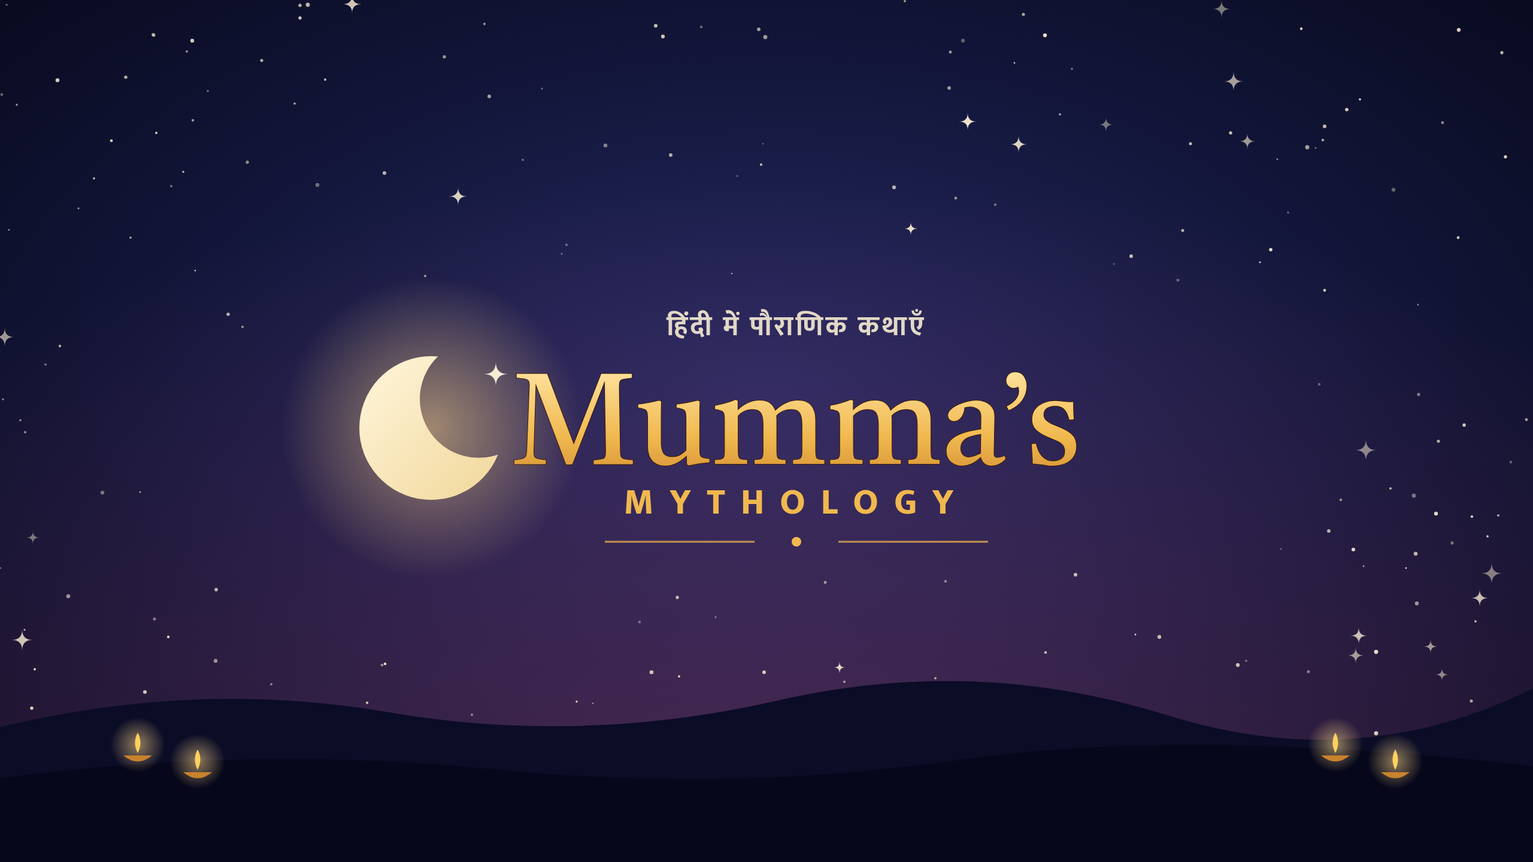
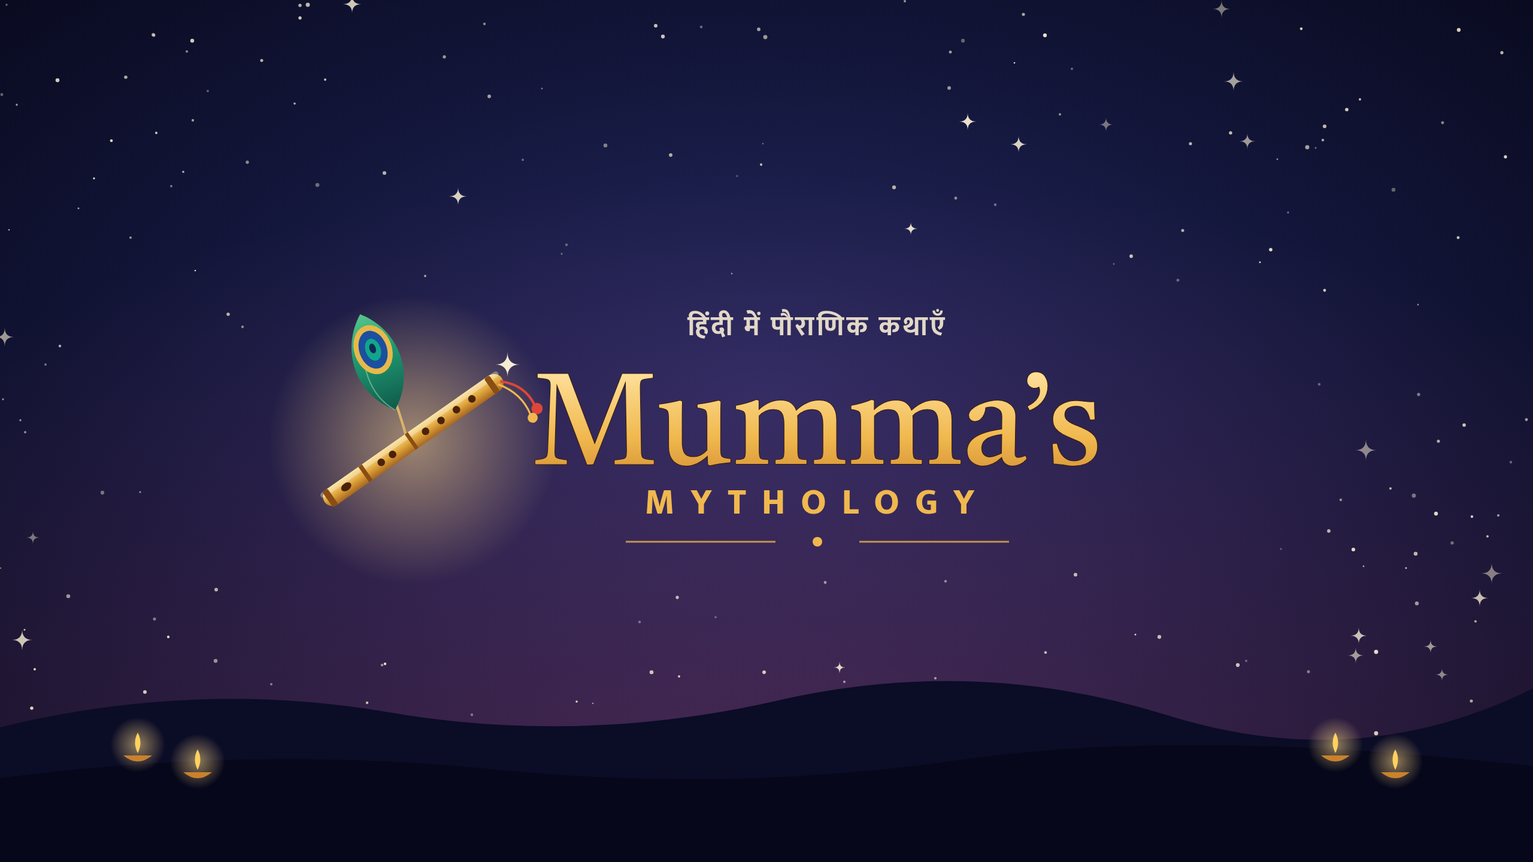
Replace crescent moon with Krishna's bansuri and peacock feather

Changed region(s): [[0.1875, 0.375, 0.7188, 0.5938], [0.4375, 0.3438, 0.625, 0.4062]]

diff --git a/channel-art/profile.html b/channel-art/profile.html
@@ -6,14 +6,37 @@
 <radialGradient id="haze" cx="50%" cy="100%" r="80%"><stop offset="0" stop-color="#7a3a6a" stop-opacity=".55"/><stop offset="1" stop-color="#7a3a6a" stop-opacity="0"/></radialGradient>
 <radialGradient id="glow" cx="50%" cy="50%" r="50%"><stop offset="0" stop-color="#ffd98a" stop-opacity=".55"/><stop offset="1" stop-color="#ffd98a" stop-opacity="0"/></radialGradient>
 <linearGradient id="gold" x1="0" y1="0" x2="0" y2="1"><stop offset="0" stop-color="#ffe3a0"/><stop offset=".55" stop-color="#f0b84e"/><stop offset="1" stop-color="#c9822c"/></linearGradient>
+<linearGradient id="bamboo" x1="0" y1="0" x2="0" y2="1"><stop offset="0" stop-color="#f8dc8e"/><stop offset=".5" stop-color="#e0a53c"/><stop offset="1" stop-color="#a8671f"/></linearGradient>
+<linearGradient id="feather" x1="0" y1="1" x2="0" y2="0"><stop offset="0" stop-color="#0f5a4a"/><stop offset=".6" stop-color="#1f9a72"/><stop offset="1" stop-color="#58c58a"/></linearGradient>
 <linearGradient id="moon" x1="0" y1="0" x2="1" y2="1"><stop offset="0" stop-color="#fff6dc"/><stop offset="1" stop-color="#f1d79a"/></linearGradient>
 </defs>
 <rect width="800" height="800" fill="url(#bg)"/><rect width="800" height="800" fill="url(#haze)"/>
 <circle cx="231" cy="152" r="2.0244870897030864" fill="#f6ecd2" opacity="0.67"/><circle cx="194" cy="269" r="1.4185520676516705" fill="#f6ecd2" opacity="0.77"/><path d="M547 326.8944715000198Q547 337 557.1055284999802 337Q547 337 547 347.1055284999802Q547 337 536.8944715000198 337Q547 337 547 326.8944715000198Z" fill="#f6ecd2" opacity="0.83"/><circle cx="727" cy="268" r="2.0309535110979127" fill="#f6ecd2" opacity="0.85"/><circle cx="122" cy="214" r="3.3619757372243217" fill="#f6ecd2" opacity="0.53"/><circle cx="219" cy="404" r="1.7244897800611751" fill="#f6ecd2" opacity="0.60"/><circle cx="292" cy="248" r="2.432680681316499" fill="#f6ecd2" opacity="0.90"/><circle cx="132" cy="292" r="2.232690644232878" fill="#f6ecd2" opacity="0.57"/><circle cx="266" cy="383" r="3.2942885250757863" fill="#f6ecd2" opacity="0.49"/><circle cx="413" cy="364" r="2.1727886065248345" fill="#f6ecd2" opacity="0.91"/><circle cx="567" cy="181" r="2.0273196376521696" fill="#f6ecd2" opacity="0.56"/><circle cx="325" cy="111" r="1.7840120902676193" fill="#f6ecd2" opacity="0.95"/><circle cx="506" cy="104" r="1.6031491709422085" fill="#f6ecd2" opacity="0.71"/><path d="M188 255.59665456488574Q188 269 201.40334543511426 269Q188 269 188 282.40334543511426Q188 269 174.59665456488574 269Q188 269 188 255.59665456488574Z" fill="#f6ecd2" opacity="0.42"/><circle cx="151" cy="697" r="1.8857969958269023" fill="#f6ecd2" opacity="0.76"/><circle cx="178" cy="150" r="2.9927316919400972" fill="#f6ecd2" opacity="0.38"/><circle cx="399" cy="24" r="1.5876725945098664" fill="#f6ecd2" opacity="0.90"/><circle cx="763" cy="551" r="2.900865167752311" fill="#f6ecd2" opacity="0.50"/><circle cx="706" cy="287" r="3.251367246243808" fill="#f6ecd2" opacity="0.59"/><circle cx="447" cy="253" r="2.0370497672525465" fill="#f6ecd2" opacity="0.79"/><circle cx="580" cy="304" r="3.468060160879074" fill="#f6ecd2" opacity="0.54"/><circle cx="108" cy="358" r="3.380684271958044" fill="#f6ecd2" opacity="0.81"/><circle cx="386" cy="135" r="2.7577466404334396" fill="#f6ecd2" opacity="0.45"/><circle cx="417" cy="404" r="2.097397033030818" fill="#f6ecd2" opacity="0.80"/><circle cx="239" cy="390" r="1.9399903952330306" fill="#f6ecd2" opacity="0.78"/><circle cx="343" cy="54" r="3.313982390712007" fill="#f6ecd2" opacity="0.84"/>
-<path d="M605 279Q605 290 616 290Q605 290 605 301Q605 290 594 290Q605 290 605 279Z" fill="#f6ecd2" opacity="0.95"/><circle cx="599.9" cy="335.6" r="3.8499999999999996" fill="#f6ecd2" opacity="0.8"/><path d="M584.7 367.9Q584.7 378.9 595.7 378.9Q584.7 378.9 584.7 389.9Q584.7 378.9 573.7 378.9Q584.7 378.9 584.7 367.9Z" fill="#f6ecd2" opacity="0.95"/><circle cx="560.3" cy="417.8" r="3.8499999999999996" fill="#f6ecd2" opacity="0.8"/><path d="M527.8 439.3Q527.8 450.3 538.8 450.3Q527.8 450.3 527.8 461.3Q527.8 450.3 516.8 450.3Q527.8 450.3 527.8 439.3Z" fill="#f6ecd2" opacity="0.95"/><circle cx="488.9" cy="474.7" r="3.8499999999999996" fill="#f6ecd2" opacity="0.8"/><path d="M445.6 478.9Q445.6 489.9 456.6 489.9Q445.6 489.9 445.6 500.9Q445.6 489.9 434.6 489.9Q445.6 489.9 445.6 478.9Z" fill="#f6ecd2" opacity="0.95"/><circle cx="400.0" cy="495.0" r="3.8499999999999996" fill="#f6ecd2" opacity="0.8"/><path d="M354.4 478.9Q354.4 489.9 365.4 489.9Q354.4 489.9 354.4 500.9Q354.4 489.9 343.4 489.9Q354.4 489.9 354.4 478.9Z" fill="#f6ecd2" opacity="0.95"/><circle cx="311.1" cy="474.7" r="3.8499999999999996" fill="#f6ecd2" opacity="0.8"/><path d="M272.2 439.3Q272.2 450.3 283.2 450.3Q272.2 450.3 272.2 461.3Q272.2 450.3 261.2 450.3Q272.2 450.3 272.2 439.3Z" fill="#f6ecd2" opacity="0.95"/><circle cx="239.7" cy="417.8" r="3.8499999999999996" fill="#f6ecd2" opacity="0.8"/><path d="M215.3 367.9Q215.3 378.9 226.3 378.9Q215.3 378.9 215.3 389.9Q215.3 378.9 204.3 378.9Q215.3 378.9 215.3 367.9Z" fill="#f6ecd2" opacity="0.95"/><circle cx="200.1" cy="335.6" r="3.8499999999999996" fill="#f6ecd2" opacity="0.8"/><path d="M195 279Q195 290 206 290Q195 290 195 301Q195 290 184 290Q195 290 195 279Z" fill="#f6ecd2" opacity="0.95"/><circle cx="200.1" cy="244.4" r="3.8499999999999996" fill="#f6ecd2" opacity="0.8"/><path d="M215.3 190.1Q215.3 201.1 226.3 201.1Q215.3 201.1 215.3 212.1Q215.3 201.1 204.3 201.1Q215.3 201.1 215.3 190.1Z" fill="#f6ecd2" opacity="0.95"/><circle cx="239.7" cy="162.2" r="3.8499999999999996" fill="#f6ecd2" opacity="0.8"/><path d="M272.2 118.69999999999999Q272.2 129.7 283.2 129.7Q272.2 129.7 272.2 140.7Q272.2 129.7 261.2 129.7Q272.2 129.7 272.2 118.69999999999999Z" fill="#f6ecd2" opacity="0.95"/><circle cx="311.1" cy="105.3" r="3.8499999999999996" fill="#f6ecd2" opacity="0.8"/><path d="M354.4 79.1Q354.4 90.1 365.4 90.1Q354.4 90.1 354.4 101.1Q354.4 90.1 343.4 90.1Q354.4 90.1 354.4 79.1Z" fill="#f6ecd2" opacity="0.95"/><circle cx="400.0" cy="85.0" r="3.8499999999999996" fill="#f6ecd2" opacity="0.8"/><path d="M445.6 79.1Q445.6 90.1 456.6 90.1Q445.6 90.1 445.6 101.1Q445.6 90.1 434.6 90.1Q445.6 90.1 445.6 79.1Z" fill="#f6ecd2" opacity="0.95"/><circle cx="488.9" cy="105.3" r="3.8499999999999996" fill="#f6ecd2" opacity="0.8"/><path d="M527.8 118.69999999999999Q527.8 129.7 538.8 129.7Q527.8 129.7 527.8 140.7Q527.8 129.7 516.8 129.7Q527.8 129.7 527.8 118.69999999999999Z" fill="#f6ecd2" opacity="0.95"/><circle cx="560.3" cy="162.2" r="3.8499999999999996" fill="#f6ecd2" opacity="0.8"/><path d="M584.7 190.1Q584.7 201.1 595.7 201.1Q584.7 201.1 584.7 212.1Q584.7 201.1 573.7 201.1Q584.7 201.1 584.7 190.1Z" fill="#f6ecd2" opacity="0.95"/><circle cx="599.9" cy="244.4" r="3.8499999999999996" fill="#f6ecd2" opacity="0.8"/>
-<circle cx="400" cy="290" r="235.20000000000002" fill="url(#glow)"/>
-<path d="M410.5 178.5A112 112 0 1 0 504.0 331.5A91.8 91.8 0 0 1 410.5 178.5Z" fill="url(#moon)"/>
-<path d="M500.8 186.96Q500.8 206 519.84 206Q500.8 206 500.8 225.04Q500.8 206 481.76 206Q500.8 206 500.8 186.96Z" fill="#f6ecd2" opacity="1"/>
+<path d="M615 279Q615 290 626 290Q615 290 615 301Q615 290 604 290Q615 290 615 279Z" fill="#f6ecd2" opacity="0.95"/><circle cx="609.6" cy="337.8" r="3.8499999999999996" fill="#f6ecd2" opacity="0.8"/><path d="M593.7 372.3Q593.7 383.3 604.7 383.3Q593.7 383.3 593.7 394.3Q593.7 383.3 582.7 383.3Q593.7 383.3 593.7 372.3Z" fill="#f6ecd2" opacity="0.95"/><circle cx="568.1" cy="424.1" r="3.8499999999999996" fill="#f6ecd2" opacity="0.8"/><path d="M534.1 447.1Q534.1 458.1 545.1 458.1Q534.1 458.1 534.1 469.1Q534.1 458.1 523.1 458.1Q534.1 458.1 534.1 447.1Z" fill="#f6ecd2" opacity="0.95"/><circle cx="493.3" cy="483.7" r="3.8499999999999996" fill="#f6ecd2" opacity="0.8"/><path d="M447.8 488.6Q447.8 499.6 458.8 499.6Q447.8 499.6 447.8 510.6Q447.8 499.6 436.8 499.6Q447.8 499.6 447.8 488.6Z" fill="#f6ecd2" opacity="0.95"/><circle cx="400.0" cy="505.0" r="3.8499999999999996" fill="#f6ecd2" opacity="0.8"/><path d="M352.2 488.6Q352.2 499.6 363.2 499.6Q352.2 499.6 352.2 510.6Q352.2 499.6 341.2 499.6Q352.2 499.6 352.2 488.6Z" fill="#f6ecd2" opacity="0.95"/><circle cx="306.7" cy="483.7" r="3.8499999999999996" fill="#f6ecd2" opacity="0.8"/><path d="M265.9 447.1Q265.9 458.1 276.9 458.1Q265.9 458.1 265.9 469.1Q265.9 458.1 254.89999999999998 458.1Q265.9 458.1 265.9 447.1Z" fill="#f6ecd2" opacity="0.95"/><circle cx="231.9" cy="424.1" r="3.8499999999999996" fill="#f6ecd2" opacity="0.8"/><path d="M206.3 372.3Q206.3 383.3 217.3 383.3Q206.3 383.3 206.3 394.3Q206.3 383.3 195.3 383.3Q206.3 383.3 206.3 372.3Z" fill="#f6ecd2" opacity="0.95"/><circle cx="190.4" cy="337.8" r="3.8499999999999996" fill="#f6ecd2" opacity="0.8"/><path d="M185 279Q185 290 196 290Q185 290 185 301Q185 290 174 290Q185 290 185 279Z" fill="#f6ecd2" opacity="0.95"/><circle cx="190.4" cy="242.2" r="3.8499999999999996" fill="#f6ecd2" opacity="0.8"/><path d="M206.3 185.7Q206.3 196.7 217.3 196.7Q206.3 196.7 206.3 207.7Q206.3 196.7 195.3 196.7Q206.3 196.7 206.3 185.7Z" fill="#f6ecd2" opacity="0.95"/><circle cx="231.9" cy="155.9" r="3.8499999999999996" fill="#f6ecd2" opacity="0.8"/><path d="M265.9 110.9Q265.9 121.9 276.9 121.9Q265.9 121.9 265.9 132.9Q265.9 121.9 254.89999999999998 121.9Q265.9 121.9 265.9 110.9Z" fill="#f6ecd2" opacity="0.95"/><circle cx="306.7" cy="96.3" r="3.8499999999999996" fill="#f6ecd2" opacity="0.8"/><path d="M352.2 69.4Q352.2 80.4 363.2 80.4Q352.2 80.4 352.2 91.4Q352.2 80.4 341.2 80.4Q352.2 80.4 352.2 69.4Z" fill="#f6ecd2" opacity="0.95"/><circle cx="400.0" cy="75.0" r="3.8499999999999996" fill="#f6ecd2" opacity="0.8"/><path d="M447.8 69.4Q447.8 80.4 458.8 80.4Q447.8 80.4 447.8 91.4Q447.8 80.4 436.8 80.4Q447.8 80.4 447.8 69.4Z" fill="#f6ecd2" opacity="0.95"/><circle cx="493.3" cy="96.3" r="3.8499999999999996" fill="#f6ecd2" opacity="0.8"/><path d="M534.1 110.9Q534.1 121.9 545.1 121.9Q534.1 121.9 534.1 132.9Q534.1 121.9 523.1 121.9Q534.1 121.9 534.1 110.9Z" fill="#f6ecd2" opacity="0.95"/><circle cx="568.1" cy="155.9" r="3.8499999999999996" fill="#f6ecd2" opacity="0.8"/><path d="M593.7 185.7Q593.7 196.7 604.7 196.7Q593.7 196.7 593.7 207.7Q593.7 196.7 582.7 196.7Q593.7 196.7 593.7 185.7Z" fill="#f6ecd2" opacity="0.95"/><circle cx="609.6" cy="242.2" r="3.8499999999999996" fill="#f6ecd2" opacity="0.8"/>
+
+<circle cx="400" cy="300" r="218.5" fill="url(#glow)"/>
+<g transform="translate(400 300) scale(0.95)">
+ <g transform="translate(-5 18) rotate(-20)">
+  <path d="M0 0Q10 -85 0 -178" fill="none" stroke="#d9b46a" stroke-width="4" stroke-linecap="round"/>
+  <path d="M0 -70C-52 -115 -48 -190 0 -232C48 -190 52 -115 0 -70Z" fill="url(#feather)"/>
+  <path d="M0 -70C-30 -105 -30 -160 0 -200" fill="none" stroke="#9fe0b8" stroke-width="2" opacity=".5"/>
+  <ellipse cx="0" cy="-172" rx="30" ry="40" fill="#e8b84a"/>
+  <ellipse cx="0" cy="-172" rx="22" ry="31" fill="#1b4fa0"/>
+  <ellipse cx="0" cy="-172" rx="12" ry="18" fill="#12a58a"/>
+  <ellipse cx="0" cy="-174" rx="5" ry="8" fill="#0b2a55"/>
+ </g>
+ <g transform="rotate(-35)">
+  <rect x="-172" y="-15" width="344" height="30" rx="15" fill="url(#bamboo)"/>
+  <rect x="-172" y="-15" width="344" height="9" rx="5" fill="#fff6dc" opacity=".35"/>
+  <g fill="#8a4d14"><rect x="-166" y="-15" width="10" height="30" rx="3"/><rect x="-96" y="-15" width="7" height="30"/><rect x="148" y="-15" width="10" height="30" rx="3"/><rect x="-6" y="-15" width="6" height="30"/></g>
+  <ellipse cx="-130" cy="0" rx="9" ry="6" fill="#4a2208"/>
+  <g fill="#4a2208"><circle cx="-40" cy="0" r="6"/><circle cx="-8" cy="0" r="0"/><circle cx="24" cy="0" r="6"/><circle cx="54" cy="0" r="6"/><circle cx="84" cy="0" r="6"/><circle cx="114" cy="0" r="6"/><circle cx="-62" cy="0" r="6"/></g>
+  <path d="M168 4Q196 30 190 66" fill="none" stroke="#e0453a" stroke-width="4" stroke-linecap="round"/>
+  <path d="M162 6Q184 38 176 74" fill="none" stroke="#f0b84e" stroke-width="3" stroke-linecap="round"/>
+  <circle cx="190" cy="72" r="9" fill="#e0453a"/><circle cx="176" cy="80" r="8" fill="#f0b84e"/>
+ </g>
+</g>
+<path d="M542.5 167Q542.5 186 561.5 186Q542.5 186 542.5 205Q542.5 186 523.5 186Q542.5 186 542.5 167Z" fill="#f6ecd2" opacity="1"/>
 <text x="400" y="545" text-anchor="middle" font-family="Tiro,serif" font-size="136" fill="url(#gold)" stroke="#3a1a05" stroke-width="1.5" paint-order="stroke">Mumma’s</text>
 <text x="400" y="617" text-anchor="middle" font-family="Mukta,sans-serif" font-weight="800" font-size="40" letter-spacing="15" fill="#f0b84e">MYTHOLOGY</text>
 <g stroke="#f0b84e" stroke-width="2" opacity=".75"><path d="M285 662H375M425 662H515"/></g>

diff --git a/channel-art/make.js b/channel-art/make.js
@@ -19,22 +19,37 @@ const defs = (w, h) => `
 <radialGradient id="haze" cx="50%" cy="100%" r="80%"><stop offset="0" stop-color="#7a3a6a" stop-opacity=".55"/><stop offset="1" stop-color="#7a3a6a" stop-opacity="0"/></radialGradient>
 <radialGradient id="glow" cx="50%" cy="50%" r="50%"><stop offset="0" stop-color="#ffd98a" stop-opacity=".55"/><stop offset="1" stop-color="#ffd98a" stop-opacity="0"/></radialGradient>
 <linearGradient id="gold" x1="0" y1="0" x2="0" y2="1"><stop offset="0" stop-color="#ffe3a0"/><stop offset=".55" stop-color="#f0b84e"/><stop offset="1" stop-color="#c9822c"/></linearGradient>
+<linearGradient id="bamboo" x1="0" y1="0" x2="0" y2="1"><stop offset="0" stop-color="#f8dc8e"/><stop offset=".5" stop-color="#e0a53c"/><stop offset="1" stop-color="#a8671f"/></linearGradient>
+<linearGradient id="feather" x1="0" y1="1" x2="0" y2="0"><stop offset="0" stop-color="#0f5a4a"/><stop offset=".6" stop-color="#1f9a72"/><stop offset="1" stop-color="#58c58a"/></linearGradient>
 <linearGradient id="moon" x1="0" y1="0" x2="1" y2="1"><stop offset="0" stop-color="#fff6dc"/><stop offset="1" stop-color="#f1d79a"/></linearGradient>
 </defs>`;
 
 // crescent centred at (cx,cy), outer radius r, opens to upper right like the video logo
-const crescent = (id, cx, cy, r) => {
-  // outer circle (cx,cy,r) minus inner circle (ix,iy,ri); inner is shifted to the upper right
-  const ri = r * 0.82, ix = cx + r * 0.36, iy = cy - r * 0.22, dx = ix - cx, dy = iy - cy, d = Math.hypot(dx, dy);
-  const a = (r * r - ri * ri + d * d) / (2 * d), h = Math.sqrt(r * r - a * a);
-  const mx = cx + (a * dx) / d, my = cy + (a * dy) / d;
-  const A = [mx + (h * dy) / d, my - (h * dx) / d], B = [mx - (h * dy) / d, my + (h * dx) / d];
-  const f = (p) => p.map((v) => v.toFixed(1)).join(' ');
-  // A is the upper tip, B the lower tip: long way round the outer circle, back along the inner one
-  return `<circle cx="${cx}" cy="${cy}" r="${r * 2.1}" fill="url(#glow)"/>
-<path d="M${f(A)}A${r} ${r} 0 1 0 ${f(B)}A${ri.toFixed(1)} ${ri.toFixed(1)} 0 0 1 ${f(A)}Z" fill="url(#moon)"/>
-${star4(cx + r * 0.9, cy - r * 0.75, r * 0.17, 1)}`;
-};
+// Krishna's bansuri (bamboo flute) with a peacock feather and a red tassel. s=1 is profile size.
+const bansuri = (cx, cy, s) => `
+<circle cx="${cx}" cy="${cy}" r="${230 * s}" fill="url(#glow)"/>
+<g transform="translate(${cx} ${cy}) scale(${s})">
+ <g transform="translate(-5 18) rotate(-20)">
+  <path d="M0 0Q10 -85 0 -178" fill="none" stroke="#d9b46a" stroke-width="4" stroke-linecap="round"/>
+  <path d="M0 -70C-52 -115 -48 -190 0 -232C48 -190 52 -115 0 -70Z" fill="url(#feather)"/>
+  <path d="M0 -70C-30 -105 -30 -160 0 -200" fill="none" stroke="#9fe0b8" stroke-width="2" opacity=".5"/>
+  <ellipse cx="0" cy="-172" rx="30" ry="40" fill="#e8b84a"/>
+  <ellipse cx="0" cy="-172" rx="22" ry="31" fill="#1b4fa0"/>
+  <ellipse cx="0" cy="-172" rx="12" ry="18" fill="#12a58a"/>
+  <ellipse cx="0" cy="-174" rx="5" ry="8" fill="#0b2a55"/>
+ </g>
+ <g transform="rotate(-35)">
+  <rect x="-172" y="-15" width="344" height="30" rx="15" fill="url(#bamboo)"/>
+  <rect x="-172" y="-15" width="344" height="9" rx="5" fill="#fff6dc" opacity=".35"/>
+  <g fill="#8a4d14"><rect x="-166" y="-15" width="10" height="30" rx="3"/><rect x="-96" y="-15" width="7" height="30"/><rect x="148" y="-15" width="10" height="30" rx="3"/><rect x="-6" y="-15" width="6" height="30"/></g>
+  <ellipse cx="-130" cy="0" rx="9" ry="6" fill="#4a2208"/>
+  <g fill="#4a2208"><circle cx="-40" cy="0" r="6"/><circle cx="-8" cy="0" r="0"/><circle cx="24" cy="0" r="6"/><circle cx="54" cy="0" r="6"/><circle cx="84" cy="0" r="6"/><circle cx="114" cy="0" r="6"/><circle cx="-62" cy="0" r="6"/></g>
+  <path d="M168 4Q196 30 190 66" fill="none" stroke="#e0453a" stroke-width="4" stroke-linecap="round"/>
+  <path d="M162 6Q184 38 176 74" fill="none" stroke="#f0b84e" stroke-width="3" stroke-linecap="round"/>
+  <circle cx="190" cy="72" r="9" fill="#e0453a"/><circle cx="176" cy="80" r="8" fill="#f0b84e"/>
+ </g>
+</g>
+${star4(cx + 150 * s, cy - 120 * s, 20 * s, 1)}`;
 
 const ring = (cx, cy, R, n, size) => {
   let s = '';
@@ -60,8 +75,8 @@ const scatter = (w, h, n, avoid) => {
 out('profile.svg', `<svg xmlns="http://www.w3.org/2000/svg" viewBox="0 0 800 800" width="800" height="800">${defs()}
 <rect width="800" height="800" fill="url(#bg)"/><rect width="800" height="800" fill="url(#haze)"/>
 ${scatter(800, 800, 70, (x, y) => Math.hypot(x - 400, y - 400) > 395 || (y > 425 && y < 690 && x > 60 && x < 740))}
-${ring(400, 290, 205, 28, 11)}
-${crescent('cm', 400, 290, 112)}
+${ring(400, 290, 215, 28, 11)}
+${bansuri(400, 300, 0.95)}
 <text x="400" y="545" text-anchor="middle" font-family="Tiro,serif" font-size="136" fill="url(#gold)" stroke="#3a1a05" stroke-width="1.5" paint-order="stroke">Mumma’s</text>
 <text x="400" y="617" text-anchor="middle" font-family="Mukta,sans-serif" font-weight="800" font-size="40" letter-spacing="15" fill="#f0b84e">MYTHOLOGY</text>
 <g stroke="#f0b84e" stroke-width="2" opacity=".75"><path d="M285 662H375M425 662H515"/></g>
@@ -80,11 +95,11 @@ ${scatter(W, H, 260, (x, y) => x > 460 && x < 2100 && y > 470 && y < 960)}
 ${hills}
 ${diya(230, 1262)}${diya(330, 1290)}${diya(2230, 1262)}${diya(2330, 1290)}
 <!-- safe-area content: moon left of the name -->
-${crescent('cm', 720, 715, 120)}
-<text x="1330" y="775" text-anchor="middle" font-family="Tiro,serif" font-size="215" fill="url(#gold)" stroke="#3a1a05" stroke-width="2" paint-order="stroke">Mumma’s</text>
-<text x="1330" y="858" text-anchor="middle" font-family="Mukta,sans-serif" font-weight="800" font-size="60" letter-spacing="26" fill="#f0b84e">MYTHOLOGY</text>
-<g stroke="#f0b84e" stroke-width="3" opacity=".75"><path d="M1010 905H1260M1400 905H1650"/></g><circle cx="1330" cy="905" r="8" fill="#f0b84e"/>
-<text x="1330" y="560" text-anchor="middle" font-family="Mukta,sans-serif" font-weight="700" font-size="46" letter-spacing="4" fill="#f6ecd2" opacity=".9">हिंदी में पौराणिक कथाएँ</text>
+${bansuri(690, 735, 1.05)}
+<text x="1365" y="775" text-anchor="middle" font-family="Tiro,serif" font-size="215" fill="url(#gold)" stroke="#3a1a05" stroke-width="2" paint-order="stroke">Mumma’s</text>
+<text x="1365" y="858" text-anchor="middle" font-family="Mukta,sans-serif" font-weight="800" font-size="60" letter-spacing="26" fill="#f0b84e">MYTHOLOGY</text>
+<g stroke="#f0b84e" stroke-width="3" opacity=".75"><path d="M1045 905H1295M1435 905H1685"/></g><circle cx="1365" cy="905" r="8" fill="#f0b84e"/>
+<text x="1365" y="560" text-anchor="middle" font-family="Mukta,sans-serif" font-weight="700" font-size="46" letter-spacing="4" fill="#f6ecd2" opacity=".9">हिंदी में पौराणिक कथाएँ</text>
 </svg>`);
 console.log('wrote profile.svg, banner.svg');
 // HTML wrappers (inline SVG) so fonts load reliably when rendering to PNG

diff --git a/channel-art/banner.html b/channel-art/banner.html
@@ -6,6 +6,8 @@
 <radialGradient id="haze" cx="50%" cy="100%" r="80%"><stop offset="0" stop-color="#7a3a6a" stop-opacity=".55"/><stop offset="1" stop-color="#7a3a6a" stop-opacity="0"/></radialGradient>
 <radialGradient id="glow" cx="50%" cy="50%" r="50%"><stop offset="0" stop-color="#ffd98a" stop-opacity=".55"/><stop offset="1" stop-color="#ffd98a" stop-opacity="0"/></radialGradient>
 <linearGradient id="gold" x1="0" y1="0" x2="0" y2="1"><stop offset="0" stop-color="#ffe3a0"/><stop offset=".55" stop-color="#f0b84e"/><stop offset="1" stop-color="#c9822c"/></linearGradient>
+<linearGradient id="bamboo" x1="0" y1="0" x2="0" y2="1"><stop offset="0" stop-color="#f8dc8e"/><stop offset=".5" stop-color="#e0a53c"/><stop offset="1" stop-color="#a8671f"/></linearGradient>
+<linearGradient id="feather" x1="0" y1="1" x2="0" y2="0"><stop offset="0" stop-color="#0f5a4a"/><stop offset=".6" stop-color="#1f9a72"/><stop offset="1" stop-color="#58c58a"/></linearGradient>
 <linearGradient id="moon" x1="0" y1="0" x2="1" y2="1"><stop offset="0" stop-color="#fff6dc"/><stop offset="1" stop-color="#f1d79a"/></linearGradient>
 </defs>
 <rect width="2560" height="1440" fill="url(#bg)"/><rect width="2560" height="1440" fill="url(#haze)"/>
@@ -14,11 +16,32 @@
 <path d="M0 1440V1300Q420 1245 820 1285T1600 1270T2560 1280V1440Z" fill="#06071a"/>
 <circle cx="230" cy="1244" r="46" fill="url(#glow)"/><path d="M206 1262Q230 1282 254 1262Z" fill="#c9822c"/><path d="M230 1258Q221 1240 230 1224Q239 1240 230 1258Z" fill="#ffd25e"/><circle cx="330" cy="1272" r="46" fill="url(#glow)"/><path d="M306 1290Q330 1310 354 1290Z" fill="#c9822c"/><path d="M330 1286Q321 1268 330 1252Q339 1268 330 1286Z" fill="#ffd25e"/><circle cx="2230" cy="1244" r="46" fill="url(#glow)"/><path d="M2206 1262Q2230 1282 2254 1262Z" fill="#c9822c"/><path d="M2230 1258Q2221 1240 2230 1224Q2239 1240 2230 1258Z" fill="#ffd25e"/><circle cx="2330" cy="1272" r="46" fill="url(#glow)"/><path d="M2306 1290Q2330 1310 2354 1290Z" fill="#c9822c"/><path d="M2330 1286Q2321 1268 2330 1252Q2339 1268 2330 1286Z" fill="#ffd25e"/>
 <!-- safe-area content: moon left of the name -->
-<circle cx="720" cy="715" r="252" fill="url(#glow)"/>
-<path d="M731.3 595.5A120 120 0 1 0 831.5 759.5A98.4 98.4 0 0 1 731.3 595.5Z" fill="url(#moon)"/>
-<path d="M828 604.6Q828 625 848.4 625Q828 625 828 645.4Q828 625 807.6 625Q828 625 828 604.6Z" fill="#f6ecd2" opacity="1"/>
-<text x="1330" y="775" text-anchor="middle" font-family="Tiro,serif" font-size="215" fill="url(#gold)" stroke="#3a1a05" stroke-width="2" paint-order="stroke">Mumma’s</text>
-<text x="1330" y="858" text-anchor="middle" font-family="Mukta,sans-serif" font-weight="800" font-size="60" letter-spacing="26" fill="#f0b84e">MYTHOLOGY</text>
-<g stroke="#f0b84e" stroke-width="3" opacity=".75"><path d="M1010 905H1260M1400 905H1650"/></g><circle cx="1330" cy="905" r="8" fill="#f0b84e"/>
-<text x="1330" y="560" text-anchor="middle" font-family="Mukta,sans-serif" font-weight="700" font-size="46" letter-spacing="4" fill="#f6ecd2" opacity=".9">हिंदी में पौराणिक कथाएँ</text>
+
+<circle cx="690" cy="735" r="241.5" fill="url(#glow)"/>
+<g transform="translate(690 735) scale(1.05)">
+ <g transform="translate(-5 18) rotate(-20)">
+  <path d="M0 0Q10 -85 0 -178" fill="none" stroke="#d9b46a" stroke-width="4" stroke-linecap="round"/>
+  <path d="M0 -70C-52 -115 -48 -190 0 -232C48 -190 52 -115 0 -70Z" fill="url(#feather)"/>
+  <path d="M0 -70C-30 -105 -30 -160 0 -200" fill="none" stroke="#9fe0b8" stroke-width="2" opacity=".5"/>
+  <ellipse cx="0" cy="-172" rx="30" ry="40" fill="#e8b84a"/>
+  <ellipse cx="0" cy="-172" rx="22" ry="31" fill="#1b4fa0"/>
+  <ellipse cx="0" cy="-172" rx="12" ry="18" fill="#12a58a"/>
+  <ellipse cx="0" cy="-174" rx="5" ry="8" fill="#0b2a55"/>
+ </g>
+ <g transform="rotate(-35)">
+  <rect x="-172" y="-15" width="344" height="30" rx="15" fill="url(#bamboo)"/>
+  <rect x="-172" y="-15" width="344" height="9" rx="5" fill="#fff6dc" opacity=".35"/>
+  <g fill="#8a4d14"><rect x="-166" y="-15" width="10" height="30" rx="3"/><rect x="-96" y="-15" width="7" height="30"/><rect x="148" y="-15" width="10" height="30" rx="3"/><rect x="-6" y="-15" width="6" height="30"/></g>
+  <ellipse cx="-130" cy="0" rx="9" ry="6" fill="#4a2208"/>
+  <g fill="#4a2208"><circle cx="-40" cy="0" r="6"/><circle cx="-8" cy="0" r="0"/><circle cx="24" cy="0" r="6"/><circle cx="54" cy="0" r="6"/><circle cx="84" cy="0" r="6"/><circle cx="114" cy="0" r="6"/><circle cx="-62" cy="0" r="6"/></g>
+  <path d="M168 4Q196 30 190 66" fill="none" stroke="#e0453a" stroke-width="4" stroke-linecap="round"/>
+  <path d="M162 6Q184 38 176 74" fill="none" stroke="#f0b84e" stroke-width="3" stroke-linecap="round"/>
+  <circle cx="190" cy="72" r="9" fill="#e0453a"/><circle cx="176" cy="80" r="8" fill="#f0b84e"/>
+ </g>
+</g>
+<path d="M847.5 588Q847.5 609 868.5 609Q847.5 609 847.5 630Q847.5 609 826.5 609Q847.5 609 847.5 588Z" fill="#f6ecd2" opacity="1"/>
+<text x="1365" y="775" text-anchor="middle" font-family="Tiro,serif" font-size="215" fill="url(#gold)" stroke="#3a1a05" stroke-width="2" paint-order="stroke">Mumma’s</text>
+<text x="1365" y="858" text-anchor="middle" font-family="Mukta,sans-serif" font-weight="800" font-size="60" letter-spacing="26" fill="#f0b84e">MYTHOLOGY</text>
+<g stroke="#f0b84e" stroke-width="3" opacity=".75"><path d="M1045 905H1295M1435 905H1685"/></g><circle cx="1365" cy="905" r="8" fill="#f0b84e"/>
+<text x="1365" y="560" text-anchor="middle" font-family="Mukta,sans-serif" font-weight="700" font-size="46" letter-spacing="4" fill="#f6ecd2" opacity=".9">हिंदी में पौराणिक कथाएँ</text>
 </svg>

diff --git a/channel-art/README.md b/channel-art/README.md
@@ -2,4 +2,4 @@
 
 - `profile.png` (800x800): YouTube profile picture. YouTube shows it as a circle; everything important is inside the circle.
 - `banner.png` (2560x1440): YouTube channel banner. The name and tagline sit inside the safe area for phones, desktop and TV (1546x423 in the centre).
-- `*.svg` / `*.html`: sources. `make.js` generates them (`node channel-art/make.js`). Uses the same fonts and colours as the videos (night sky, gold name, crescent moon).
+- `*.svg` / `*.html`: sources. `make.js` generates them (`node channel-art/make.js`). Uses the same fonts and colours as the videos (night sky, gold name, Krishna's bansuri with a peacock feather).
